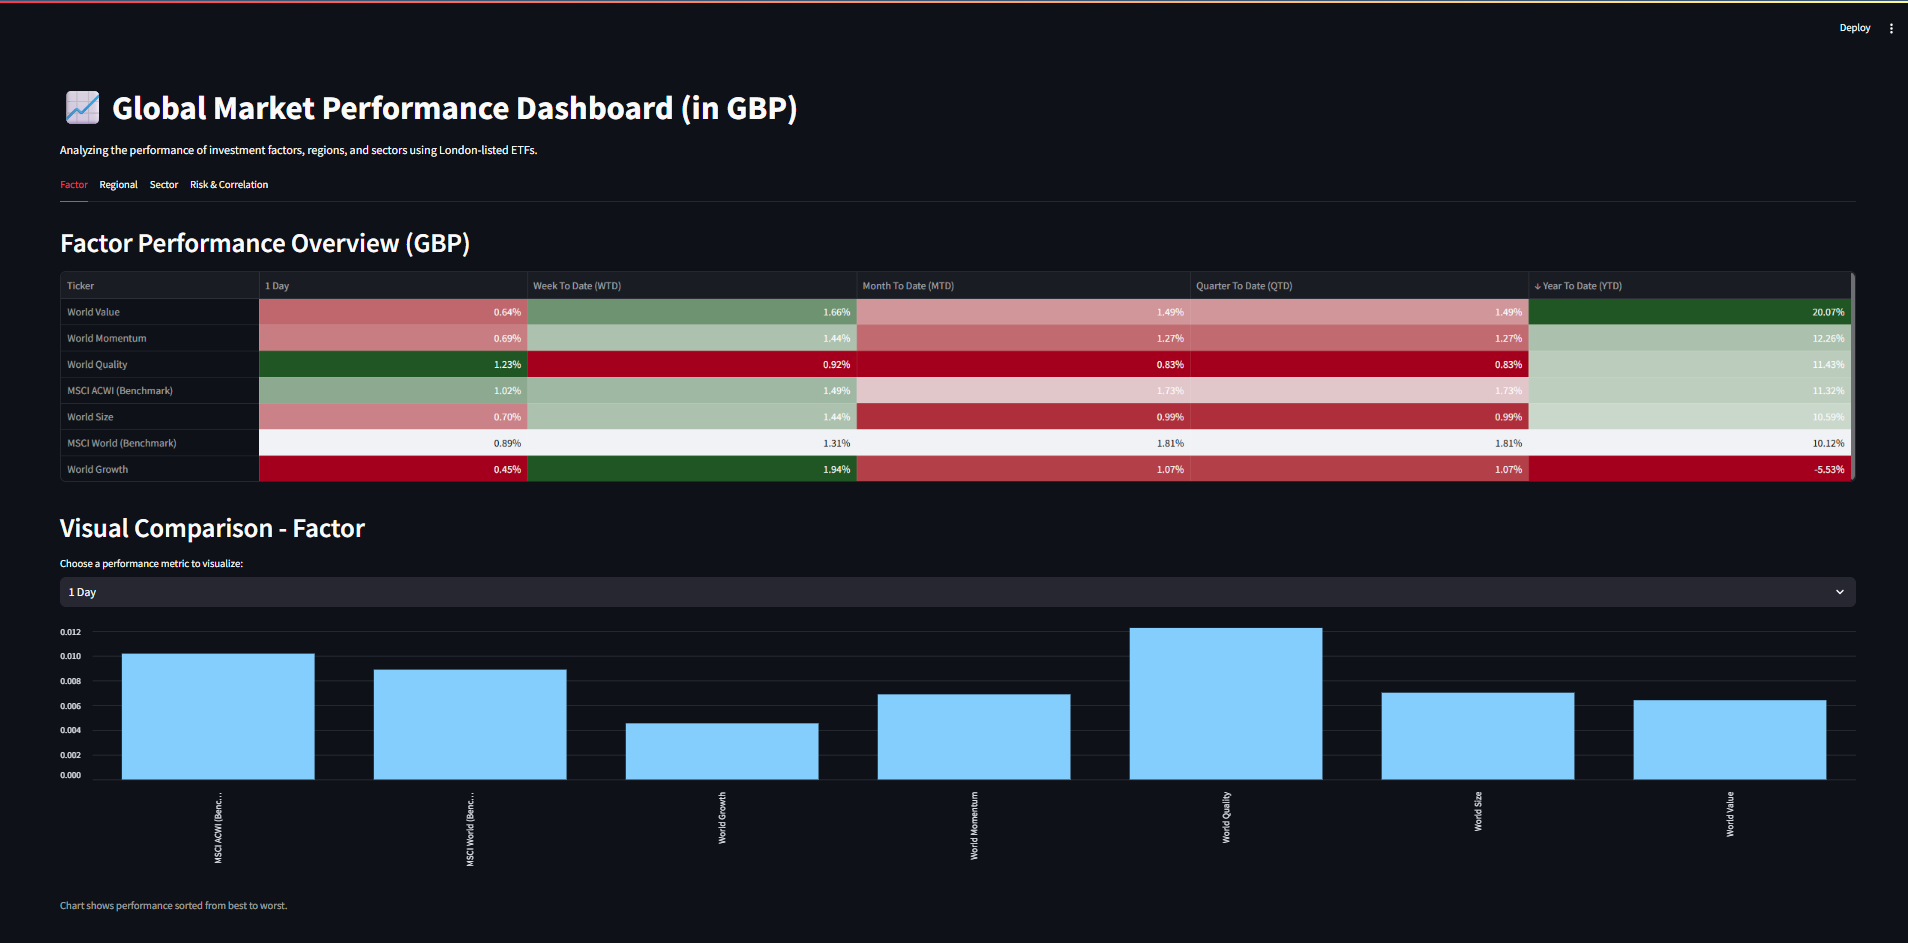
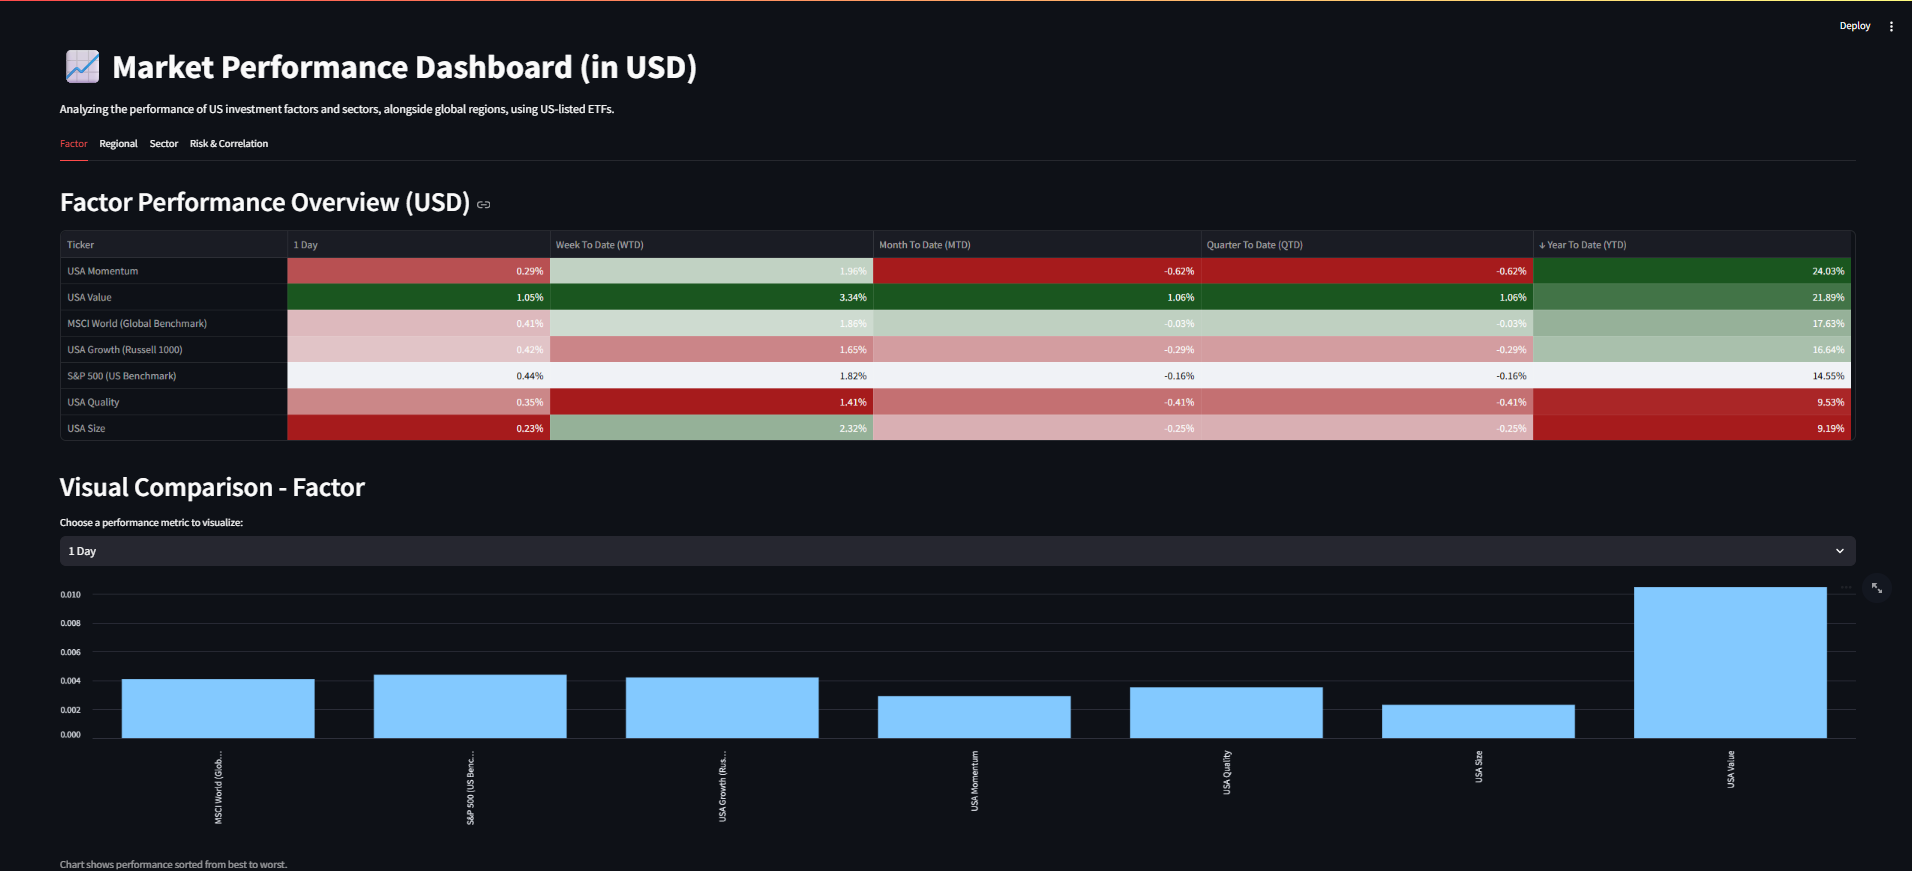
adding growth factor

Changed region(s): [[0.0309, 0.062, 0.9895, 0.899], [0.0, 0.0, 1.0, 0.031], [0.0309, 0.93, 0.1546, 1.0]]

diff --git a/factor_dashboard.py b/factor_dashboard.py
@@ -7,56 +7,61 @@ import matplotlib.pyplot as plt
 import seaborn as sns
 
 # --- Dashboard Configuration ---
-st.set_page_config(page_title="Global Performance Dashboard (GBP)", layout="wide")
-st.title("📈 Global Market Performance Dashboard (in GBP)")
-st.markdown("Analyzing the performance of investment factors, regions, and sectors using London-listed ETFs.")
+st.set_page_config(page_title="Market Performance Dashboard (USD)", layout="wide")
+st.title("📈 Market Performance Dashboard (in USD)")
+st.markdown("Analyzing the performance of US investment factors and sectors, alongside global regions, using US-listed ETFs.")
 
-# --- Ticker Definitions ---
+# --- Ticker Definitions (ALL US-LISTED & USD-DENOMINATED) ---
 FACTOR_TICKERS = {
-    "MSCI World (Benchmark)": "SWDA.L",
-    "MSCI ACWI (Benchmark)": "SSAC.L",
-    "World Momentum": "IWFM.L",
-    "World Value": "XDEV.L",
-    "World Quality": "IWQU.L",
-    "World Growth": "SGRO.L", # Updated to SPDR MSCI World Growth UCITS ETF
-    "World Size": "IWFS.L",
+    "S&P 500 (US Benchmark)": "VOO", # Primary benchmark for US factors
+    "MSCI World (Global Benchmark)": "URTH",
+    "USA Momentum": "MTUM",
+    "USA Value": "VLUE",
+    "USA Quality": "QUAL",
+    "USA Growth (Russell 1000)": "IWF",
+    "USA Size": "SIZE",
 }
 
 REGION_TICKERS = {
-    "MSCI World (Benchmark)": "SWDA.L", # Added for comparison
-    "USA": "CSUS.L",
-    "Japan": "SJPA.L",
-    "UK": "CSUK.L",
-    "Europe ex-UK": "CEUG.L",
-    "Emerging Markets ex-China": "EMXC.L", 
-    "China A-Shares": "CNYA.L",
-    "Canada": "CCAU.L",
+    "MSCI World (Benchmark)": "URTH",
+    "USA (S&P 500)": "VOO",
+    "Japan": "EWJ",
+    "UK": "EWU",
+    "Europe ex-UK": "EZU",
+    "Emerging Markets ex-China": "EMXC", 
+    "China": "MCHI",
+    "Canada": "EWC",
 }
 
 SECTOR_TICKERS = {
-    "MSCI World (Benchmark)": "SWDA.L", # Added for comparison
-    "Info. Technology": "IUIT.L",
-    "Health Care": "IUES.L",
-    "Financials": "IUFS.L",
-    "Cons. Discretionary": "IUCD.L",
-    "Industrials": "IUIS.L",
-    "Cons. Staples": "IUCS.L",
-    "Energy": "IESE.L",
-    "Utilities": "IUUS.L",
-    "Materials": "IUMS.L",
-    "Real Estate": "EPRA.L",
-    "Communication Svcs": "IUCM.L",
+    "S&P 500 (US Benchmark)": "VOO", # Primary benchmark for US sectors
+    "MSCI World (Global Benchmark)": "URTH",
+    "Info. Technology": "VGT",
+    "Health Care": "VHT",
+    "Financials": "VFH",
+    "Cons. Discretionary": "VCR",
+    "Industrials": "VIS",
+    "Cons. Staples": "VDC",
+    "Energy": "VDE",
+    "Utilities": "VPU",
+    "Materials": "VAW",
+    "Real Estate": "VNQ",
+    "Communication Svcs": "VOX",
 }
 
 @st.cache_data(ttl=3600) # Cache data for 1 hour
 def get_performance_data(tickers, start_date):
-    # ... (function is largely unchanged)
-    raw_data = yf.download(list(tickers.values()), start=start_date, progress=False, auto_adjust=False)
+    """
+    Downloads historical data for US-listed ETFs.
+    Uses auto_adjust=True to get total return performance (dividends included).
+    """
+    raw_data = yf.download(list(tickers.values()), start=start_date, progress=False, auto_adjust=True)
 
     if raw_data.empty or 'Close' not in raw_data:
         st.error(f"Could not download market data for one or more tickers.")
         return pd.DataFrame()
     
+    # Handle cases where only one ticker returns data
     if isinstance(raw_data.columns, pd.MultiIndex):
         data = raw_data['Close'].dropna(axis=1, how='all')
     else:
@@ -65,7 +70,7 @@ def get_performance_data(tickers, start_date):
     if data.empty:
         return pd.DataFrame()
 
-    # Rename columns to human-readable names
+    # Rename columns from tickers to human-readable names
     ticker_to_name = {v: k for k, v in tickers.items()}
     data.rename(columns=ticker_to_name, inplace=True)
         
@@ -123,14 +128,17 @@ def calculate_performance_metrics(data):
     
     return performance_df
 
-def style_performance_table(df, benchmark_name="MSCI World (Benchmark)"):
-    # ... (function is unchanged)
+def style_performance_table(df, benchmark_name):
+    """
+    Applies a distinct green/red gradient relative to the specified benchmark.
+    """
     if benchmark_name not in df.index:
         return df.style.format("{:.2%}").background_gradient(cmap='RdYlGn', axis=None)
 
     benchmark_row = df.loc[benchmark_name]
     diffs = df - benchmark_row
 
+    # Normalize per column for consistent color intensity
     max_pos_per_col = diffs[diffs > 0].max()
     max_neg_per_col = abs(diffs[diffs < 0].min())
 
@@ -170,20 +178,23 @@ def style_performance_table(df, benchmark_name="MSCI World (Benchmark)"):
     return df.style.apply(color_rows_gradient, axis=1).format("{:.2%}")
 
 def display_performance_section(title, tickers):
-    st.header(f"{title} Performance Overview (GBP)")
+    """Helper function to display a performance table and chart for a given set of tickers."""
+    st.header(f"{title} Performance Overview (USD)")
     start_date = (datetime.now() - pd.DateOffset(years=1)).strftime('%Y-%m-%d')
     
     data = get_performance_data(tickers, start_date)
     performance_table = calculate_performance_metrics(data)
     
-    benchmark_name = "MSCI World (Benchmark)"
+    # --- NEW: Dynamic Benchmark Selection ---
+    if title == "Factor" or title == "Sector":
+        benchmark_name = "S&P 500 (US Benchmark)"
+    else: # For Regional tab
+        benchmark_name = "MSCI World (Benchmark)"
 
     if not performance_table.empty:
-        # --- FIX: Unified the display logic for all tabs ---
         if benchmark_name in performance_table.index:
             sort_col = "Year To Date (YTD)"
             
-            # Ensure sort column exists before proceeding
             if sort_col in performance_table.columns:
                 benchmark_perf = performance_table.loc[benchmark_name, sort_col]
                 
@@ -195,10 +206,8 @@ def display_performance_section(title, tickers):
                 
                 st.dataframe(style_performance_table(display_table, benchmark_name), use_container_width=True)
             else:
-                 # Fallback if YTD column isn't available for some reason
                  st.dataframe(style_performance_table(performance_table, benchmark_name), use_container_width=True)
         else:
-            # Fallback if benchmark ticker failed to load
             st.dataframe(performance_table.style.format("{:.2%}").background_gradient(cmap='RdYlGn'), use_container_width=True)
 
         st.header(f"Visual Comparison - {title}")
@@ -222,8 +231,8 @@ def display_performance_section(title, tickers):
         st.warning(f"Could not display performance data for {title}.")
 
 def display_risk_correlation_section(all_tickers):
-    # ... (function is unchanged)
-    st.header("Risk & Correlation Analysis")
+    """New section for Correlation and Rolling Performance analysis."""
+    st.header("Risk & Correlation Analysis (USD)")
     start_date = (datetime.now() - pd.DateOffset(years=3)).strftime('%Y-%m-%d')
     data = get_performance_data(all_tickers, start_date)
 
@@ -231,7 +240,8 @@ def display_risk_correlation_section(all_tickers):
         st.subheader("Correlation Heatmap")
         st.write("This grid shows how different assets move in relation to each other. A value of 1 means they move perfectly together; a value of 0 means they have no relationship.")
         
-        returns = data.pct_change()
+        # Address FutureWarning by specifying fill_method=None
+        returns = data.pct_change(fill_method=None)
         corr_matrix = returns.corr()
 
         fig, ax = plt.subplots(figsize=(12, 9))
@@ -241,7 +251,8 @@ def display_risk_correlation_section(all_tickers):
         st.subheader("1-Year Rolling Performance")
         st.write("This chart shows the trailing 1-year performance for each asset over the last 3 years, helping to visualize long-term trends and cyclicality.")
         
-        rolling_returns = (data.pct_change(252).dropna()) * 100
+        # Address FutureWarning by specifying fill_method=None
+        rolling_returns = (data.pct_change(252, fill_method=None).dropna()) * 100
         st.line_chart(rolling_returns)
 
 # --- Main App Logic ---
